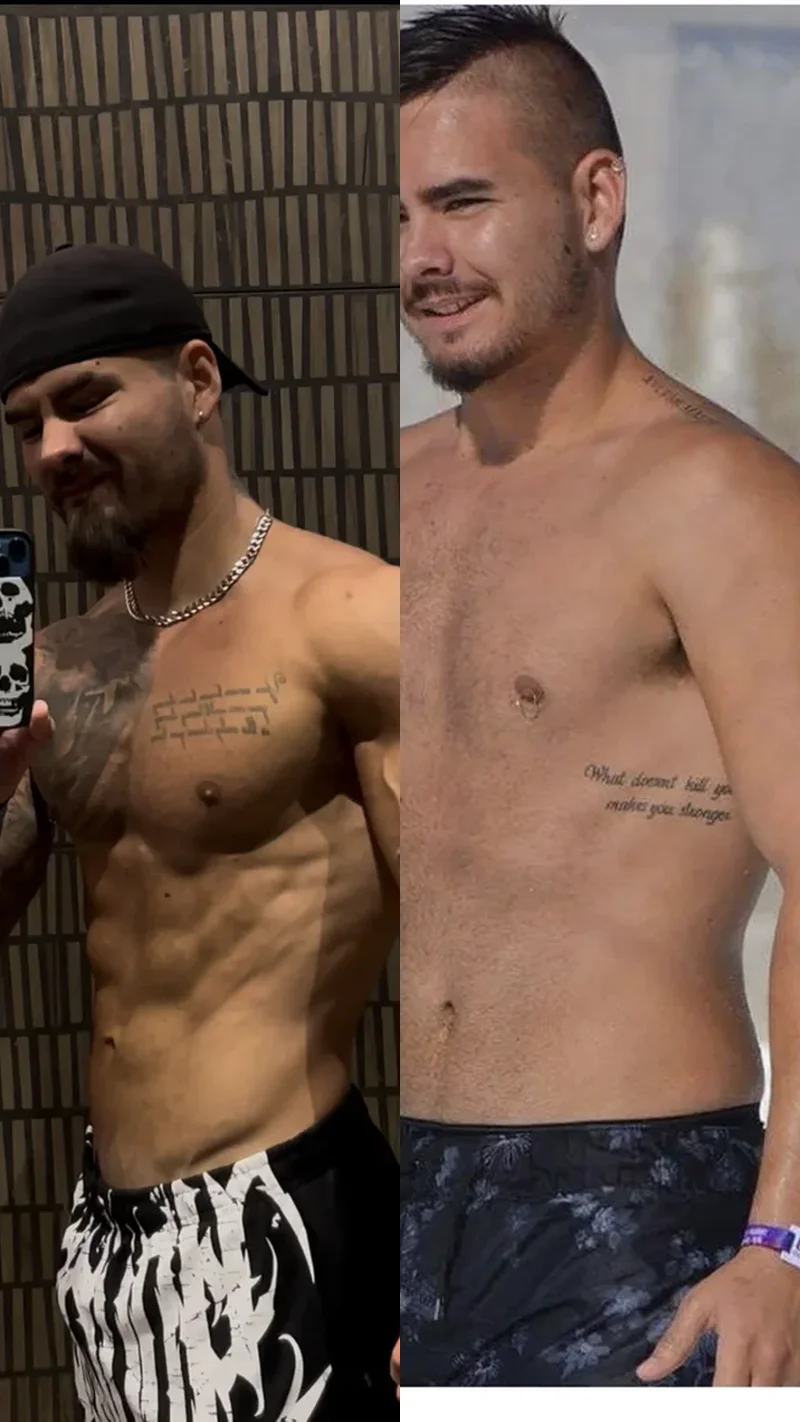
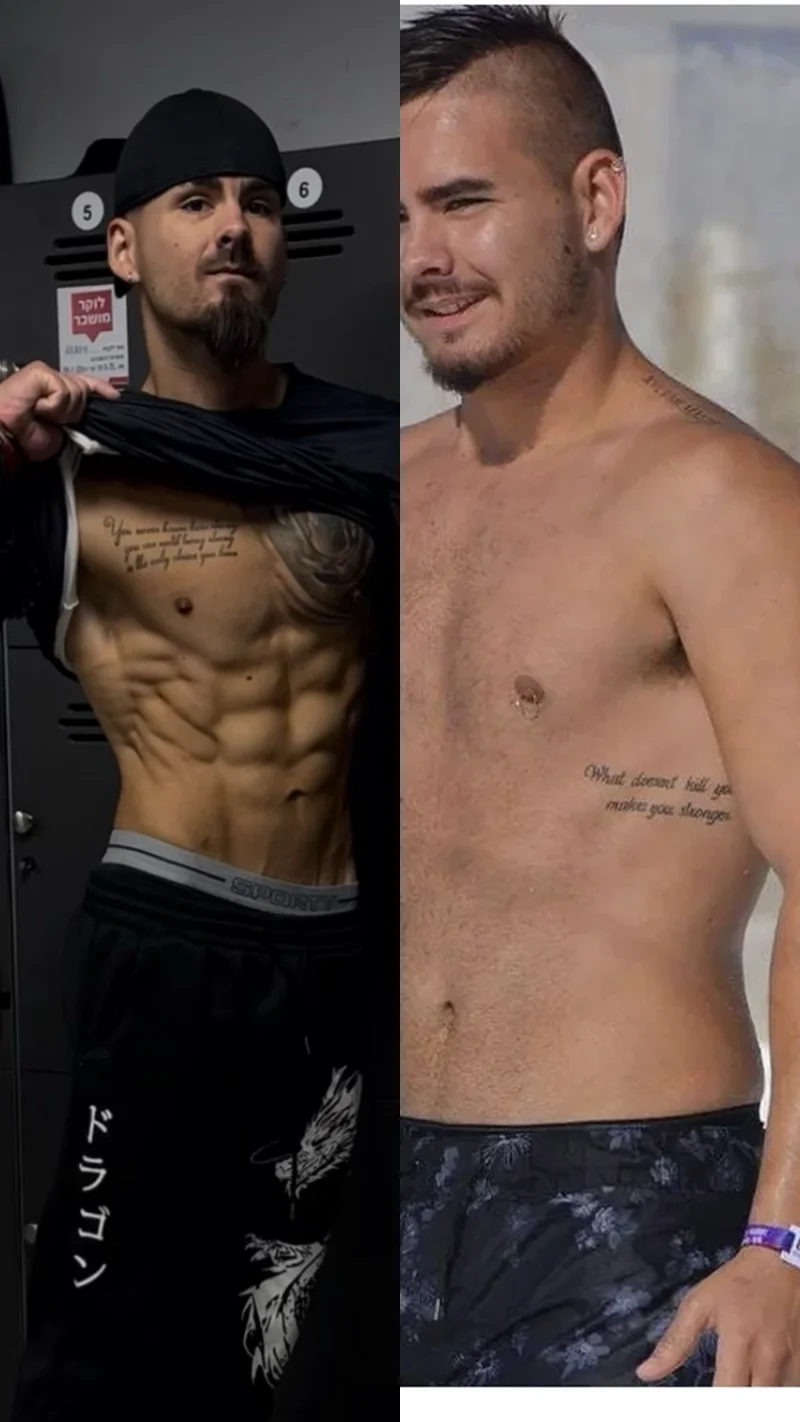
Fix cropped photos, remove trainee names from videos, pain-focused copy pass
- Replaced two badly-cropped photos with clean alternates: the "after"
  side of Ram's own transformation card (had a visible black bar) and
  whoami-ram.webp in the proof-stat section (same issue, pre-existing —
  only became obvious once flagged, both now use a clean, well-framed
  source photo instead)
- Removed trainee names from all 12 video-testimonial cards per
  request — only the play button and poster show now
- Rewrote several generic paragraphs (hero subheading, proof-stat
  subheading, pain-section mini-CTA, final-CTA intro) using specific,
  scene-based pain language from Ram's target-audience research
  (approaching girls, staying covered at the beach) instead of
  generic "no shortcuts / no empty promises" phrasing

diff --git a/index.html b/index.html
@@ -73,7 +73,7 @@
       <div class="hero-copy reveal">
         <p class="hero-banner"><span class="hero-banner-dot" aria-hidden="true"></span>רק לבחורים שמתאמנים כמו מטורפים, ורואים כל בוקר באותו גוף במראה</p>
         <h1 class="hero-title">תוך <span class="accent-text">90 יום</span> אתה לא מזהה את עצמך במראה</h1>
-        <p class="hero-sub">בלי לאבד שריר, בלי דיאטת רעב, ובלי אימון אחד מיותר. תהליך אחד שסוף סוף עובד — ורואים את זה כבר בחודש הראשון.</p>
+        <p class="hero-sub">בלי לחשוב פעמיים לפני שאתה ניגש למישהי. בלי להיות זה שנשאר עם החולצה בים. 90 יום, ורואים את זה כבר במראה.</p>
         <div class="hero-actions">
           <a href="#lead-form-hero" class="btn btn-accent btn-lg js-cta-scroll">אני רוצה להתחיל את התהליך</a>
         </div>
@@ -269,51 +269,39 @@
         <div class="carousel-track">
           <button class="video-card reveal" data-src="assets/optimized/videos/or-cohen.mp4" data-name="אור כהן" style="background-image:url('assets/optimized/posters/or-cohen-poster.webp')">
             <span class="video-play" aria-hidden="true">▶</span>
-            <span class="video-name">אור כהן</span>
           </button>
           <button class="video-card reveal" data-src="assets/optimized/videos/shon.mp4" data-name="שון" style="background-image:url('assets/optimized/posters/shon-poster.webp')">
             <span class="video-play" aria-hidden="true">▶</span>
-            <span class="video-name">שון</span>
           </button>
           <button class="video-card reveal" data-src="assets/optimized/videos/sani.mp4" data-name="סאני" style="background-image:url('assets/optimized/posters/sani-poster.webp')">
             <span class="video-play" aria-hidden="true">▶</span>
-            <span class="video-name">סאני</span>
           </button>
           <button class="video-card reveal" data-src="assets/optimized/videos/raz.mp4" data-name="רז" style="background-image:url('assets/optimized/posters/raz-poster.webp')">
             <span class="video-play" aria-hidden="true">▶</span>
-            <span class="video-name">רז</span>
           </button>
           <button class="video-card reveal" data-src="assets/optimized/videos/ron-bilya.mp4" data-name="רון בילייה" style="background-image:url('assets/optimized/posters/ron-bilya-poster.webp')">
             <span class="video-play" aria-hidden="true">▶</span>
-            <span class="video-name">רון בילייה</span>
           </button>
           <button class="video-card reveal" data-src="assets/optimized/videos/matan.mp4" data-name="מתן" style="background-image:url('assets/optimized/posters/matan-poster.webp')">
             <span class="video-play" aria-hidden="true">▶</span>
-            <span class="video-name">מתן</span>
           </button>
           <button class="video-card reveal" data-src="assets/optimized/videos/erol.mp4" data-name="ארול" style="background-image:url('assets/optimized/posters/erol-poster.webp')">
             <span class="video-play" aria-hidden="true">▶</span>
-            <span class="video-name">ארול</span>
           </button>
           <button class="video-card reveal" data-src="assets/optimized/videos/yair.mp4" data-name="יאיר" style="background-image:url('assets/optimized/posters/yair-poster.webp')">
             <span class="video-play" aria-hidden="true">▶</span>
-            <span class="video-name">יאיר</span>
           </button>
           <button class="video-card reveal" data-src="assets/optimized/videos/niv.mp4" data-name="ניב" style="background-image:url('assets/optimized/posters/niv-poster.webp')">
             <span class="video-play" aria-hidden="true">▶</span>
-            <span class="video-name">ניב</span>
           </button>
           <button class="video-card reveal" data-src="assets/optimized/videos/amit-ozen.mp4" data-name="עמית אוזן" style="background-image:url('assets/optimized/posters/amit-ozen-poster.webp')">
             <span class="video-play" aria-hidden="true">▶</span>
-            <span class="video-name">עמית אוזן</span>
           </button>
           <button class="video-card reveal" data-src="assets/optimized/videos/tuvs.mp4" data-name="מתאמן בתהליך" style="background-image:url('assets/optimized/posters/tuvs-poster.webp')">
             <span class="video-play" aria-hidden="true">▶</span>
-            <span class="video-name">מתאמן בתהליך</span>
           </button>
           <button class="video-card reveal" data-src="assets/optimized/videos/trainee-1.mp4" data-name="מתאמן בתהליך" style="background-image:url('assets/optimized/posters/trainee-1-poster.webp')">
             <span class="video-play" aria-hidden="true">▶</span>
-            <span class="video-name">מתאמן בתהליך</span>
           </button>
         </div>
         <button class="carousel-btn carousel-btn--next" aria-label="הסרטון הבא">›</button>
@@ -434,7 +422,7 @@
     <div class="wrap proof-stat-grid">
       <div class="proof-stat-copy reveal">
         <h2>איך יותר מ־<span class="accent-text">250 בחורים</span> ירדו בממוצע <span class="accent-text">8 ק"ג</span> תוך <span class="accent-text">90 יום</span> — ולא חזרו למשקל הקודם?</h2>
-        <p class="proof-stat-sub">בלי קיצורי דרך, בלי הבטחות ריקות. רק תהליך שעובד, שוב ושוב, כל פעם מחדש.</p>
+        <p class="proof-stat-sub">לא עוד תוכנית שגונבת לך זמן בלי תוצאה. תהליך שגורם לך להפסיק להשוות את עצמך לחברים — ולהתחיל להיות זה שמסתכלים עליו.</p>
         <a href="#lead-form-mid" class="btn btn-accent js-cta-scroll">אני רוצה להיות הבא בתור</a>
       </div>
       <div class="proof-stat-media reveal">
@@ -458,7 +446,7 @@
         <strong>זה לא בגלל שאתה עצלן. זה בגלל שאף אחד לא סידר לך את הבסיס נכון.</strong>
       </p>
       <div class="mini-cta reveal">
-        <p class="mini-cta-text">רוצה לשנות את זה? נדבר.</p>
+        <p class="mini-cta-text">נמאס לך להיות זה שנשאר עם החולצה? נדבר.</p>
         <a href="#lead-form-mid" class="btn btn-accent js-cta-scroll">דבר איתי, אני עונה אישית</a>
       </div>
     </div>
@@ -584,7 +572,7 @@
     <div class="wrap">
       <div class="final-cta-head reveal">
         <h2>מוכן להפסיק לדבר <span class="accent-text">ולהתחיל</span>?</h2>
-        <p>תשאיר פרטים ואני כותב לך אישית.<br>בלי מכירה, בלי לחץ, רק שיחה כנה בינינו.</p>
+        <p>עוד קיץ עם החולצה, או שמתחילים עכשיו?<br>תשאיר פרטים ואני כותב לך אישית — בלי מכירה, בלי לחץ.</p>
       </div>
       <form class="lead-form lead-form--final reveal" id="lead-form-final" novalidate>
         <p class="form-honesty">רגע של כנות: אין כאן הבטחות קסם ואין לחץ מכירתי. <mark>יש רק תהליך אמיתי, למי שמוכן להתחייב לעצמו.</mark> אם זה אתה, בוא נדבר.</p>